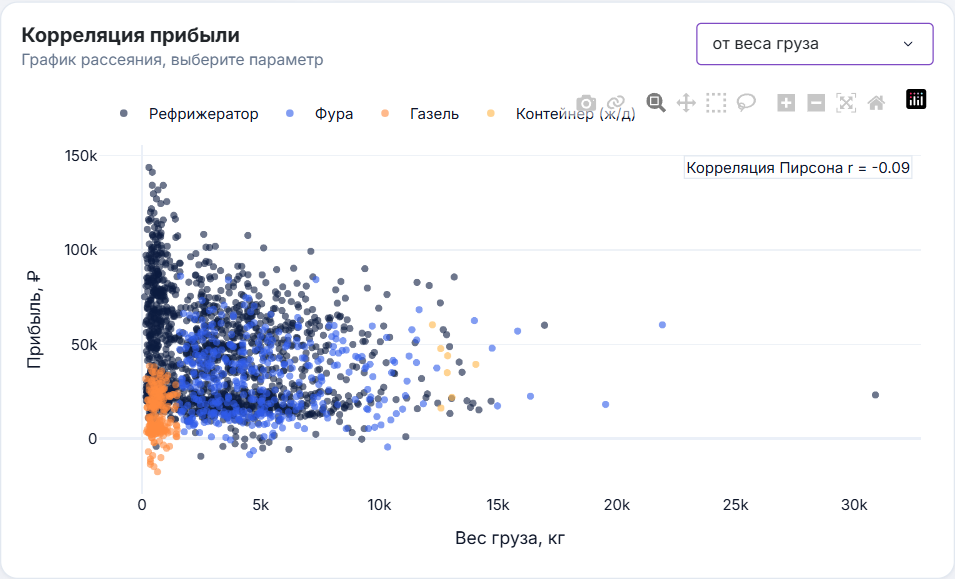
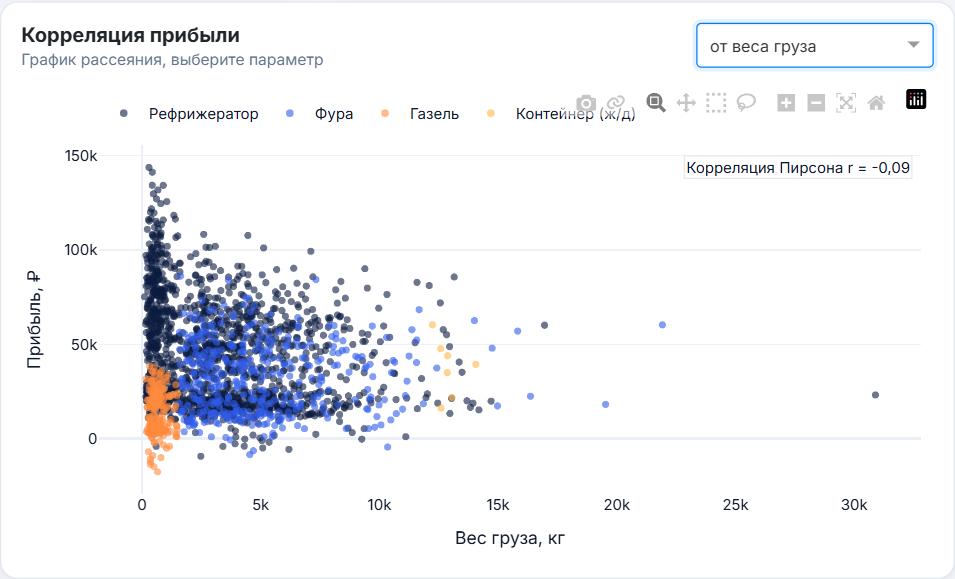
feat(ui): быстрый выбор периода, сброс фильтров, русский формат чисел
- кнопки «Весь период», «12 месяцев», «Квартал», «Месяц» – диапазон дат от последней даты в файле;
  «Сбросить фильтры» – весь период, все категории и регионы
- KPI, таблица и коэффициент Пирсона в русском формате: 7 292 794 и 79,7 %
- даты в фильтре в одну строку, высотой как выпадающие списки; подписи «Начало» / «Конец»
- README: Python 3.11+, теги v1.0.0/v1.1.0, полная структура репозитория, описание быстрого выбора
- скриншоты документации пересняты

Changed region(s): [[0.6984, 0.0311, 1.0, 0.1244]]

diff --git a/assets/style.css b/assets/style.css
@@ -52,3 +52,18 @@ body { background: var(--bg); font-family: Inter, "Segoe UI", Arial, sans-serif;
 .lh-empty { color: var(--muted); background: #fff; border: 1px dashed var(--line); border-radius: 12px; padding: 18px; text-align: center; }
 
 .lh-footer { color: var(--muted); font-size: 12px; text-align: center; margin-top: 26px; }
+
+/* даты в одну строку; быстрый выбор периода под фильтрами */
+.lh-dates .DateRangePickerInput { display: flex; align-items: center; flex-wrap: nowrap; width: 100%; }
+.lh-dates .DateInput { flex: 1; width: auto; }
+.lh-quick { display: flex; flex-wrap: wrap; align-items: center; gap: 8px; padding-top: 14px; margin-top: 2px; border-top: 1px solid var(--line); }
+.lh-quick-label { font-size: 12px; font-weight: 700; color: #334155; margin-right: 4px; }
+.lh-chip, .lh-reset { font: 600 13px Inter, "Segoe UI", Arial, sans-serif; border-radius: 999px; padding: 6px 14px; cursor: pointer;
+  transition: background .15s, color .15s, border-color .15s; }
+.lh-chip { border: 1px solid #c7d2fe; background: #f8faff; color: var(--blue); }
+.lh-chip:hover { background: var(--blue); border-color: var(--blue); color: #fff; }
+.lh-reset { margin-left: auto; border: 1px solid var(--line); background: #fff; color: var(--muted); }
+.lh-reset:hover { border-color: var(--orange); color: var(--orange); }
+.lh-chip:focus-visible, .lh-reset:focus-visible { outline: 2px solid var(--blue); outline-offset: 2px; }
+.lh-dates .DateRangePickerInput { height: 36px; border: 1px solid #ccc; border-radius: 4px; overflow: hidden; }
+.lh-dates .DateInput_input { height: 34px; font-size: 14px; border-bottom: 0; }

diff --git a/logihub_dashboard/layout.py b/logihub_dashboard/layout.py
@@ -7,6 +7,7 @@ from dash import dash_table, dcc, html
 from .data import PERIODS
 
 CARGO_OPTIONS = ["Электроника", "Продукты питания", "Стройматериалы", "Одежда и обувь", "Мебель", "Медикаменты"]
+QUICK_RANGES = {"all": "Весь период", "12M": "12 месяцев", "Q": "Квартал", "M": "Месяц"}   # от последней даты в файле
 REGION_OPTIONS = ["Хабаровский край", "Приморский край", "Амурская область", "Сахалинская область", "Еврейская АО"]
 
 
@@ -37,19 +38,29 @@ def upload_panel() -> dcc.Upload:
 
 def filters() -> dbc.Row:
     return dbc.Row(className="g-3 lh-filters", children=[
-        dbc.Col(md=2, children=[html.Label("Период анализа"),
+        dbc.Col(md=6, xl=2, children=[html.Label("Период анализа"),
                                 dcc.Dropdown(id="period", options=[{"label": v, "value": k} for k, v in PERIODS.items()],
                                              value="M", clearable=False)]),
-        dbc.Col(md=3, children=[html.Label("Даты"),
+        dbc.Col(md=6, xl=3, children=[html.Label("Даты"),
                                 dcc.DatePickerRange(id="date-range", display_format="DD.MM.YYYY",
-                                                    first_day_of_week=1, className="lh-dates")]),
-        dbc.Col(md=4, children=[html.Label("Категории груза"),
+                                                    first_day_of_week=1, className="lh-dates",
+                                                    start_date_placeholder_text="Начало", end_date_placeholder_text="Конец")]),
+        dbc.Col(md=6, xl=4, children=[html.Label("Категории груза"),
                                 dcc.Dropdown(id="cargo", options=CARGO_OPTIONS, multi=True,
                                              placeholder="Все категории")]),
-        dbc.Col(md=3, children=[html.Label("Регионы доставки"),
+        dbc.Col(md=6, xl=3, children=[html.Label("Регионы доставки"),
                                 dcc.Dropdown(id="regions", options=REGION_OPTIONS, multi=True,
                                              placeholder="Все регионы")]),
+        dbc.Col(width=12, children=html.Div(className="lh-quick", children=[
+            html.Span("Быстрый выбор", className="lh-quick-label"),
+            *[html.Button(text, id={"type": "quick", "range": key}, className="lh-chip", n_clicks=0)
+              for key, text in QUICK_RANGES.items()],
+            html.Button("Сбросить фильтры", id="reset-filters", className="lh-reset", n_clicks=0),
+        ])),
     ])
+
+
+RU = {"group": " ", "decimal": ","}   # русский формат чисел: 7 292 794 и 34,0
 
 
 def kpi_table() -> dash_table.DataTable:
@@ -58,11 +69,11 @@ def kpi_table() -> dash_table.DataTable:
         columns=[
             {"name": "Период", "id": "label"},
             {"name": "Заказов", "id": "orders", "type": "numeric"},
-            {"name": "Выручка, ₽", "id": "revenue", "type": "numeric", "format": {"specifier": ",.0f"}},
-            {"name": "Расходы, ₽", "id": "total_cost", "type": "numeric", "format": {"specifier": ",.0f"}},
-            {"name": "Прибыль, ₽", "id": "profit", "type": "numeric", "format": {"specifier": ",.0f"}},
-            {"name": "Рентабельность, %", "id": "margin", "type": "numeric", "format": {"specifier": ".1f"}},
-            {"name": "OTIF, %", "id": "otif", "type": "numeric", "format": {"specifier": ".1f"}},
+            {"name": "Выручка, ₽", "id": "revenue", "type": "numeric", "format": {"specifier": ",.0f", "locale": RU}},
+            {"name": "Расходы, ₽", "id": "total_cost", "type": "numeric", "format": {"specifier": ",.0f", "locale": RU}},
+            {"name": "Прибыль, ₽", "id": "profit", "type": "numeric", "format": {"specifier": ",.0f", "locale": RU}},
+            {"name": "Рентабельность, %", "id": "margin", "type": "numeric", "format": {"specifier": ".1f", "locale": RU}},
+            {"name": "OTIF, %", "id": "otif", "type": "numeric", "format": {"specifier": ".1f", "locale": RU}},
         ],
         style_header={"backgroundColor": "#f8fafc", "fontWeight": 700, "color": "#64748b",
                       "textTransform": "uppercase", "fontSize": 11, "border": "none"},

diff --git a/logihub_dashboard/callbacks.py b/logihub_dashboard/callbacks.py
@@ -5,7 +5,7 @@ import io
 
 import dash_bootstrap_components as dbc
 import pandas as pd
-from dash import Input, Output, State, html, no_update
+from dash import ALL, Input, Output, State, ctx, html, no_update
 
 from . import figures
 from .data import OTIF_TARGET, DataError, by_period, filter_orders, kpis, parse_upload, prepare
@@ -15,6 +15,10 @@ def _money(value: float) -> str:
     if abs(value) >= 1e6:
         return f"{value / 1e6:,.1f} млн ₽".replace(",", " ").replace(".", ",")
     return f"{value:,.0f} ₽".replace(",", " ")
+
+
+def _pct(value: float, digits: int = 1) -> str:
+    return f"{value:.{digits}f}".replace(".", ",") + " %"
 
 
 def indicator(title: str, value: str, percent: float, target: str, color: str) -> dbc.Card:
@@ -45,6 +49,24 @@ def register(app) -> None:
         return df.to_json(orient="split", date_format="iso"), status, start, end, start, end
 
     @app.callback(
+        Output("date-range", "start_date", allow_duplicate=True), Output("date-range", "end_date", allow_duplicate=True),
+        Output("cargo", "value"), Output("regions", "value"),
+        Input({"type": "quick", "range": ALL}, "n_clicks"), Input("reset-filters", "n_clicks"),
+        State("date-range", "min_date_allowed"), State("date-range", "max_date_allowed"),
+        prevent_initial_call=True,
+    )
+    def quick_range(_quick, _reset, lo, hi):
+        """Быстрый выбор периода от последней даты в файле; «Сбросить» – весь период и все категории и регионы."""
+        if not lo or not hi or not ctx.triggered_id:
+            return no_update, no_update, no_update, no_update
+        lo, hi = pd.Timestamp(lo), pd.Timestamp(hi)
+        if ctx.triggered_id == "reset-filters":
+            return lo.date(), hi.date(), [], []
+        months = {"all": None, "12M": 12, "Q": 3, "M": 1}[ctx.triggered_id["range"]]
+        start = lo if months is None else max(lo, hi - pd.DateOffset(months=months) + pd.Timedelta(days=1))
+        return start.date(), hi.date(), no_update, no_update
+
+    @app.callback(
         Output("kpi-indicators", "children"), Output("graph-timeseries", "figure"), Output("graph-costs", "figure"),
         Output("graph-profit-hist", "figure"), Output("graph-scatter", "figure"), Output("graph-otif", "figure"),
         Output("graph-regions", "figure"), Output("table-kpi", "data"), Output("dataset-info", "children"),
@@ -61,15 +83,15 @@ def register(app) -> None:
         view = filter_orders(df, start, end, cargo, regions)
         k = kpis(view)
         cards = dbc.Row(className="g-3", children=[
-            dbc.Col(md=6, xl=3, children=indicator("OTIF", f"{k['otif']:.1f} %", k["otif"] / OTIF_TARGET * 100,
+            dbc.Col(md=6, xl=3, children=indicator("OTIF", _pct(k["otif"]), k["otif"] / OTIF_TARGET * 100,
                                                    f"цель {OTIF_TARGET:.0f} % · выполнено на {k['otif'] / OTIF_TARGET * 100:.0f} %",
                                                    "success" if k["otif"] >= OTIF_TARGET else "warning")),
             dbc.Col(md=6, xl=3, children=indicator("Выручка", _money(k["revenue"]), 100,
                                                    f"заказов: {k['orders']:,}".replace(",", " "), "primary")),
             dbc.Col(md=6, xl=3, children=indicator("Прибыль", _money(k["profit"]), k["margin"] / 40 * 100,
-                                                   f"рентабельность {k['margin']:.1f} % (ориентир 40 %)", "info")),
+                                                   f"рентабельность {_pct(k['margin'])} (ориентир 40 %)", "info")),
             dbc.Col(md=6, xl=3, children=indicator("В срок / в полном объёме", f"{k['on_time']:.0f} / {k['in_full']:.0f} %",
-                                                   k["on_time"], f"отмены: {k['cancel_rate']:.1f} %", "secondary")),
+                                                   k["on_time"], f"отмены: {_pct(k['cancel_rate'])}", "secondary")),
         ])
         table = by_period(view, freq)[["label", "orders", "revenue", "total_cost", "profit", "margin", "otif"]]
         info = f"{len(view):,} из {len(df):,} заказов в выборке".replace(",", " ")

diff --git a/logihub_dashboard/figures.py b/logihub_dashboard/figures.py
@@ -84,7 +84,7 @@ def profit_scatter(df: pd.DataFrame, x_metric: str = "distance_km") -> go.Figure
                      hover_data={"order_id": True, "client": True, "cargo_type": True, "region": True,
                                  "revenue": ":,.0f", "total_cost": ":,.0f"})
     corr = done[[x_metric, "profit"]].corr().iloc[0, 1]
-    fig.add_annotation(text=f"Корреляция Пирсона r = {corr:.2f}", x=0.99, y=0.97, xref="paper", yref="paper", xanchor="right",
+    fig.add_annotation(text=f"Корреляция Пирсона r = {corr:.2f}".replace(".", ","), x=0.99, y=0.97, xref="paper", yref="paper", xanchor="right",
                        showarrow=False, bgcolor="white", bordercolor="#e2e8f0", font=dict(size=12))
     return _style(fig, 380)
 
